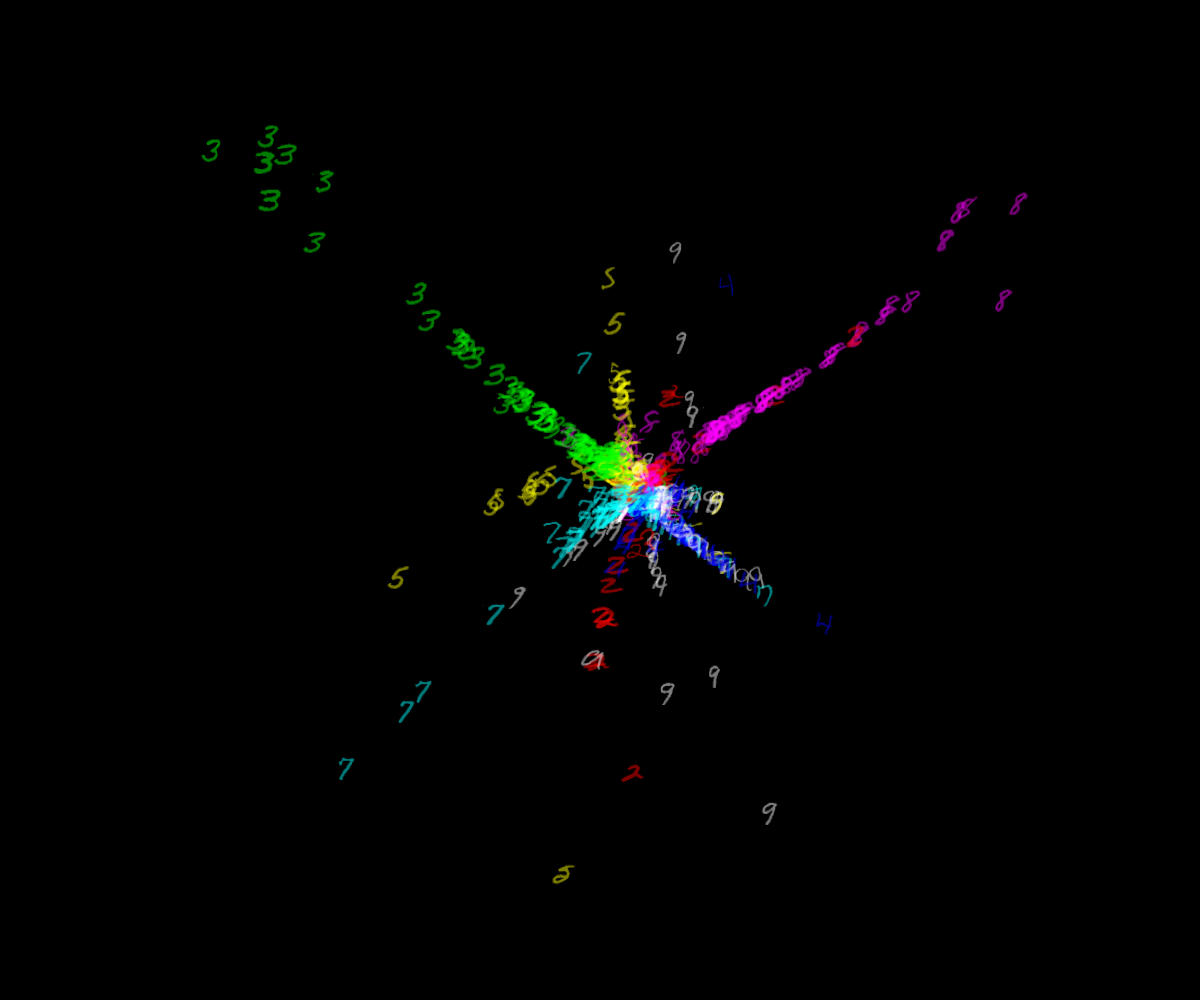
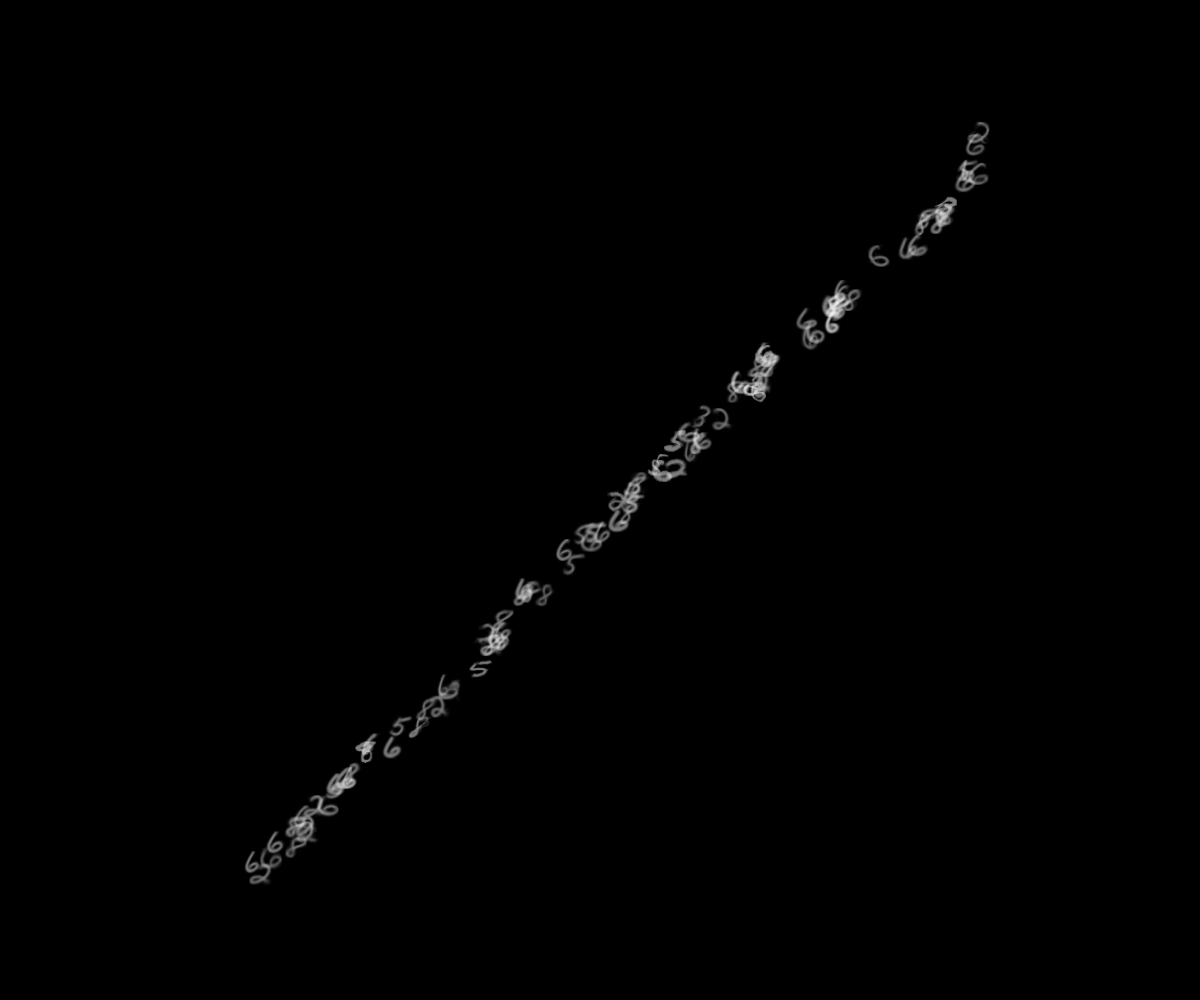
Merged kmeans and visualization

diff --git a/clean_code/MNIST_main.py b/clean_code/MNIST_main.py
@@ -36,26 +36,26 @@ config.params['output']= 'streaming_centroids.npy'
 
 centroids,counters,inital_mean_d2,mean_d2=kmeans.Streaming_Kmeans(config.params['file_path'])
 
-X=np.stack(centroids)
+X = np.stack(centroids)
 print('X.shape=',X.shape)
 
 # Normalize pixel values to [0, 1]
 X = X / 255.0
-y=0 # just a patch to make things run, as we do not use labels in this example
+y = 0 # just a patch to make things run, as we do not use labels in this example
 #av: TODO replace compressed_set with point_set
 # define set of points on which we will work
-point_set = setofpoints.SetOfPoints(points=X[:1000])
+point_set = setofpoints.SetOfPoints(points=X)
 
 #av: TODO choose landmarks randoomly or greeedily
 # Special for MNist : 
 # Select one sample per digit to serve as a landmark
 landmarks = []
 import random
-for digit in range(10):
-    landmarks.append(landmark.Landmark(random.randint(0, centroids.shape[0]),1.0))
+for digit in range(3):
+	landmarks.append(landmark.Landmark(random.randint(0, centroids.shape[0]),1.0))
 
 mnist_problem = problem.Problem(point_set, r=1)
-mnist_problem.optimize(landmarks, k=2, r=0.5)
+# mnist_problem.optimize(landmarks, k=4, target_avg_voltage=0.5)
 
 # Initialize the map
 voltage_map = voltagemap.VoltageMap()
@@ -63,8 +63,10 @@ voltage_map = voltagemap.VoltageMap()
 # Compute voltages for each landmark and store in the map
 for lm in landmarks:
 	mnist_solver = solver.Solver(problem=mnist_problem)
-	voltages = mnist_solver.compute_voltages(k=2, landmarks=[lm])
+	voltages = mnist_solver.compute_voltages(k=4, landmarks=[lm])
 	voltage_map.add_solution(landmark_index=lm.index, voltages=voltages)
 
+print(np.array(voltage_map.voltage_maps).shape)
+
 #av: TODO call some visualizations, that store the figure into a file.
-visualization.Visualization.plot_mds_digits([2, 3, 4, 5, 7, 8, 9], voltage_map, point_set, y[:1000], alpha_actual=0.5, out_file="../inputoutput/matplotfigures/mnist_mds.png")
+visualization.Visualization.plot_mds_digits([0], voltage_map, point_set, np.zeros(1000), alpha_actual=0.5, n_outliers=900, out_file="../inputoutput/matplotfigures/mnist_mds.png")

diff --git a/clean_code/visualization.py b/clean_code/visualization.py
@@ -1,5 +1,6 @@
 import matplotlib.pyplot as plt
 import numpy as np
+from sklearn.decomposition import PCA
 from sklearn.manifold import MDS
 from typing import List
 
@@ -12,6 +13,10 @@ class Visualization:
 
 	Primarily intended to visualize outputs from the Solver.
 	"""
+
+	@staticmethod
+	def plot_mds():
+		pass
 
 	@staticmethod
 	def plot_mds_digits(selected_digits, voltages, data, correct, n_outliers=10, alpha_actual=1, percent_size=0.02, out_file=None):
@@ -30,7 +35,7 @@ class Visualization:
 		"""
 
 		voltages = np.array(voltages.voltage_maps)
-		
+
 		indices= [i for i, label in enumerate(correct) if label in selected_digits]
 		filtered_voltages = voltages[np.ix_(selected_digits, indices)]
 		points = np.array(list(map(list, zip(*filtered_voltages))))
@@ -39,13 +44,13 @@ class Visualization:
 		filtered_labels = np.array([correct[i] for i in indices])
 
 		# Step 1: Run MDS on voltages    
-		mds = MDS(n_components=2, random_state=42)
+		mds = MDS(n_components=2)
 		transformed_points = mds.fit_transform(points)
 
 		# Step 2: Remove outliers
 		center = np.mean(transformed_points, axis=0)
 		distances = np.linalg.norm(transformed_points - center, axis=1)
-		outlier_indices = np.argsort(distances)[-len(selected_digits):]
+		outlier_indices = np.argsort(distances)[-n_outliers:]
 		mask = np.ones(len(transformed_points), dtype=bool)
 		mask[outlier_indices] = False
 		inlier_points = transformed_points[mask]
@@ -71,7 +76,9 @@ class Visualization:
 
 			label = filtered_labels[i]
 			color = np.array(digit_colors[label])
-			
+			if (np.max(voltages[:, i]) > 0.9):
+				color = np.array([1, 1, 1])
+
 			# Create RGBA image
 			rgb_image = np.zeros((28, 28, 4))
 			for c in range(3):

diff --git a/clean_code/setofpoints.py b/clean_code/setofpoints.py
@@ -29,16 +29,16 @@ class SetOfPoints:
 		if weights is None:
 			weights = np.ones(points.shape[0])
 
-		weights /= np.sum(weights)        
-		
-		if weights.ndim != 1:
+		new_weights = weights / np.sum(weights)
+		self.weights = new_weights
+
+		if self.weights.ndim != 1:
 			raise ValueError("Weights array must be 1-dimensional (n,).")
-		if points.shape[0] != weights.shape[0]:
+		if points.shape[0] != self.weights.shape[0]:
 			raise ValueError("Number of points and number of weights must be the same.")
 
 		self.points = points
 		self.shape = points.shape
-		self.weights = weights
 
 	def get_point(self, index: int) -> Tuple[np.ndarray, float]:
 		"""
